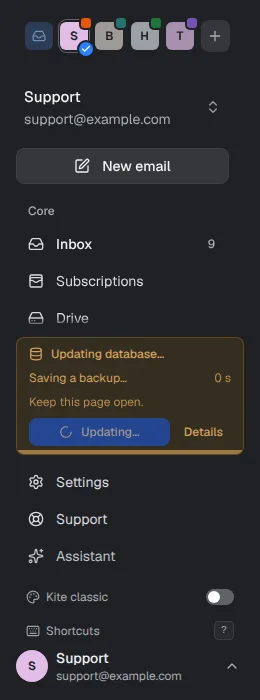
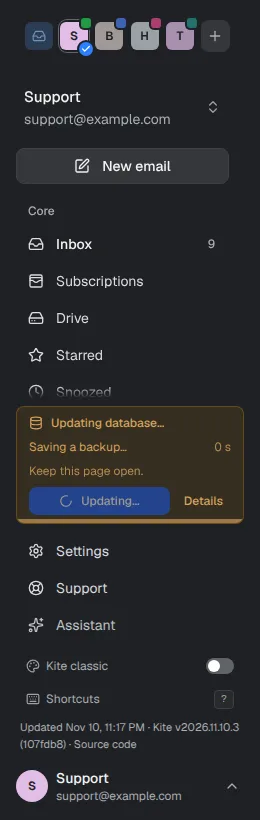
Database update notice: tests, translations, screenshots, docs

diff --git a/e2e/19-updates.spec.ts b/e2e/19-updates.spec.ts
@@ -222,12 +222,12 @@ test("the primary admin applies pending database updates from the banner", async
 	// With nothing open the notice sits in the empty reading pane, and there is no second copy above the list.
 	await expect(page.getByTestId("reading-pane-empty").getByRole("region", { name: "Database updates" })).toBeVisible();
 	await expect(banner).toHaveCount(1);
-	await expect(banner).toContainText("Kite was updated, but the database still needs 2 updates");
+	await expect(banner).toContainText("2 updates waiting");
 	await expect(banner).toContainText("new email may not appear and some pages may fail");
-	await expect(banner).toContainText("0001_add_column.sql");
+	await expect(banner).not.toContainText(".sql");
 	await expect(banner.getByRole("link", { name: "Admin overview" })).toHaveAttribute("href", "/admin");
 
-	await banner.getByRole("button", { name: "Apply now" }).click();
+	await banner.getByRole("button", { name: "Update now" }).click();
 	await expect(banner).toContainText("Database updated");
 	await expect(banner).toContainText("2 database updates applied. A safety backup was saved first.");
 	// The warning is gone once the status reports nothing pending, and only one POST was sent.
@@ -253,9 +253,9 @@ test("a member is told to ask an administrator and gets no Apply button", async 
 	await signIn(page, `${username}@${DOMAIN}`, USER_PASSWORD);
 	const banner = page.getByRole("region", { name: "Database updates" });
 	await expect(banner).toBeVisible();
-	await expect(banner).toContainText("still needs 1 update");
+	await expect(banner).toContainText("1 update waiting");
 	await expect(banner).toContainText("Ask an administrator to apply them.");
-	await expect(banner.getByRole("button", { name: "Apply now" })).toHaveCount(0);
+	await expect(banner.getByRole("button", { name: "Update now" })).toHaveCount(0);
 	await expect(banner.getByRole("link", { name: "Admin overview" })).toHaveCount(0);
 	await context.close();
 });
@@ -289,12 +289,11 @@ test("with a message open the notice moves to a compact notice in the sidebar", 
 	await expect(
 		page.getByRole("navigation", { name: "Kite" }).getByRole("region", { name: "Database updates" }),
 	).toHaveCount(1);
-	await expect(notice).toContainText("still needs 1 update");
-	await expect(notice).toHaveAttribute("title", "0001_add_column.sql");
+	await expect(notice).toContainText("1 update waiting");
 	// Compact: a title, one short line and the button, not a bar across the page.
 	expect((await notice.boundingBox())!.height).toBeLessThan(120);
 
-	await notice.getByRole("button", { name: "Apply now" }).click();
+	await notice.getByRole("button", { name: "Update now" }).click();
 	await expect(notice).toContainText("1 database update applied.");
 	await expect(notice).not.toContainText("Kite was updated");
 	// The compact result leaves at once through its close button, the same way it leaves on its own.
@@ -341,7 +340,7 @@ test.describe("the Database updated notice", () => {
 		await page.clock.install();
 		await openInbox(page);
 		const notice = page.getByRole("region", { name: "Database updates" });
-		await notice.getByRole("button", { name: "Apply now" }).click();
+		await notice.getByRole("button", { name: "Update now" }).click();
 		await expect(notice).toContainText("Database updated");
 		await expect(notice).toContainText("2 database updates applied. A safety backup was saved first.");
 		return notice;
@@ -416,17 +415,17 @@ test.describe("the Database updated notice", () => {
 		await page.clock.install();
 		await openInbox(page);
 		const notice = page.getByRole("region", { name: "Database updates" });
-		await expect(notice).toContainText("still needs 2 updates");
+		await expect(notice).toContainText("2 updates waiting");
 		await page.clock.fastForward(60_000);
-		await expect(notice).toContainText("still needs 2 updates");
+		await expect(notice).toContainText("2 updates waiting");
 
-		await notice.getByRole("button", { name: "Apply now" }).click();
+		await notice.getByRole("button", { name: "Update now" }).click();
 		await expect(notice.getByRole("alert")).toContainText("The database is not reachable right now.");
 		await page.clock.fastForward(60_000);
 		await expect(notice).toBeVisible();
 		await expect(notice.getByRole("alert")).toContainText("The database is not reachable right now.");
-		await expect(notice).toContainText("still needs 2 updates");
-		await expect(notice.getByRole("button", { name: "Apply now" })).toBeVisible();
+		await expect(notice).toContainText("Update failed");
+		await expect(notice.getByRole("button", { name: "Retry" })).toBeVisible();
 		await expect(notice.getByRole("button", { name: "Dismiss" })).toHaveCount(0);
 		await expect(page.locator(NOTICE_FLIGHT)).toHaveCount(0);
 	});

diff --git a/e2e/88-migration-progress.spec.ts b/e2e/88-migration-progress.spec.ts
@@ -56,7 +56,7 @@ async function expectBusy(panel: ReturnType<Page["getByRole"]>, busyName: string
 	const button = panel.getByRole("button", { name: busyName });
 	await expect(button).toBeDisabled();
 	await expect(button).toHaveAttribute("aria-busy", "true");
-	await expect(button).toHaveText("Updating database…");
+	await expect(button).toHaveText(busyName);
 }
 
 test("the admin card shows the steps, progress and elapsed time while the update runs, then what was applied", async ({
@@ -113,14 +113,14 @@ test("the mailbox notice shows the same steps and ends with the result", async (
 	const server = await mockMigrations(page);
 	await page.goto("/inbox");
 	const notice = page.getByRole("region", { name: "Database updates" });
-	await expect(notice).toContainText("still needs 4 updates");
-	await notice.getByRole("button", { name: "Apply now" }).click();
+	await expect(notice).toContainText("4 updates waiting");
+	await notice.getByRole("button", { name: "Update now" }).click();
 
-	await expectBusy(notice, "Updating database…");
-	await expect(notice.getByTestId("migration-progress")).toContainText("Saving a safety backup, then applying…");
-	await expect(notice.getByTestId("migration-progress")).toContainText(/Elapsed: [1-9]\d* s/);
+	await expectBusy(notice, "Updating…");
+	await expect(notice).toContainText("Saving a backup…");
+	await expect(notice).toContainText(/[1-9]\d* s/);
 	server.landTwo();
-	await expect(notice.getByTestId("migration-progress")).toContainText("2 of 4 done");
+	await expect(notice).toContainText("Applying 2 of 4…");
 
 	server.finish();
 	await expect(notice).toContainText("Database updated");
@@ -153,13 +153,13 @@ test("a restore in progress is explained, in the notice as well", async ({ page 
 	server.state.outcome = "restore";
 	await page.goto("/inbox");
 	const notice = page.getByRole("region", { name: "Database updates" });
-	await notice.getByRole("button", { name: "Apply now" }).click();
-	await expectBusy(notice, "Updating database…");
+	await notice.getByRole("button", { name: "Update now" }).click();
+	await expectBusy(notice, "Updating…");
 	server.finish();
 
 	await expect(notice.getByRole("alert")).toContainText("The database was not changed: a backup restore is running.");
-	await expect(notice.getByRole("button", { name: "Apply now" })).toBeEnabled();
-	await expect(notice).toContainText("still needs 4 updates");
+	await expect(notice).toContainText("Update failed");
+	await expect(notice.getByRole("button", { name: "Retry" })).toBeEnabled();
 });
 
 test("a gateway timeout keeps the button busy and the run is followed until the updates have landed", async ({
@@ -169,19 +169,18 @@ test("a gateway timeout keeps the button busy and the run is followed until the 
 	server.state.outcome = "timeout";
 	await page.goto("/inbox");
 	const notice = page.getByRole("region", { name: "Database updates" });
-	await notice.getByRole("button", { name: "Apply now" }).click();
-	await expectBusy(notice, "Updating database…");
+	await notice.getByRole("button", { name: "Update now" }).click();
+	await expectBusy(notice, "Updating…");
 	// The 524 answers; the Worker is still migrating, so nothing is reported as a failure.
 	server.finish();
-	const progress = notice.getByTestId("migration-progress");
-	await expect(progress).toContainText("The connection timed out; the update may still be running — checking…");
-	await expectBusy(notice, "Updating database…");
+	await expect(notice).toContainText("Connection lost, checking…");
+	await expectBusy(notice, "Updating…");
 	await expect(notice.getByRole("alert")).toHaveCount(0);
 
 	server.landTwo();
-	await expect(progress).toContainText("2 of 4 done");
-	await expect(progress).toContainText("The connection timed out");
-	await expectBusy(notice, "Updating database…");
+	await expect(notice).toContainText("Applying 2 of 4…");
+	await expect(notice).toContainText("Connection lost, checking…");
+	await expectBusy(notice, "Updating…");
 
 	server.landAll();
 	await expect(notice).toContainText("Database updated");
@@ -220,8 +219,8 @@ test("a request that never answers is cut off once the list is empty, and the ru
 	const server = await mockMigrations(page);
 	await page.goto("/inbox");
 	const notice = page.getByRole("region", { name: "Database updates" });
-	await notice.getByRole("button", { name: "Apply now" }).click();
-	await expectBusy(notice, "Updating database…");
+	await notice.getByRole("button", { name: "Update now" }).click();
+	await expectBusy(notice, "Updating…");
 
 	// Every update has landed but the POST stays open (the gate is never released).
 	server.landAll();

diff --git a/e2e/99-command-center.spec.ts b/e2e/99-command-center.spec.ts
@@ -7,7 +7,7 @@ import { restoreModules, setModuleState } from "./support/modules";
 
 // The empty reading pane's command center (src/components/command-center/): a greeting with the date, the
 // counts as tiles, the connected accounts, quick actions and what needs attention (admins), as cards. The
-// database notice keeps its place inside the pane (19-updates covers Apply now and its progress).
+// database notice keeps its place inside the pane (19-updates covers Update now and its progress).
 
 const PENDING_API = "/api/migrations/pending";
 
@@ -163,7 +163,7 @@ test("quick actions open the composer and focus the search", async ({ page }) =>
 	await expect(page.locator('input[placeholder*="Search"]')).toBeFocused();
 });
 
-test("waiting database updates stay in the notice with Apply now, not twice in the list", async ({ page }) => {
+test("waiting database updates stay in the notice with Update now, not twice in the list", async ({ page }) => {
 	await page.route(`**${PENDING_API}`, (route) =>
 		route.fulfill({ json: { pending: 1, names: ["0001_add_column.sql"] } }),
 	);
@@ -171,8 +171,8 @@ test("waiting database updates stay in the notice with Apply now, not twice in t
 	const center = pane(page);
 	const notice = center.getByRole("region", { name: "Database updates" });
 	await expect(notice).toBeVisible();
-	await expect(notice).toContainText("Kite was updated, but the database still needs 1 update");
-	await expect(notice.getByRole("button", { name: "Apply now" })).toBeVisible();
+	await expect(notice).toContainText("1 update waiting");
+	await expect(notice.getByRole("button", { name: "Update now" })).toBeVisible();
 	await expect(center.getByTestId("command-center-attention")).toBeVisible();
 	await expect(center.getByTestId("command-center-attention-migrations")).toHaveCount(0);
 });
@@ -187,7 +187,7 @@ test("a member gets the greeting and the counts but no admin card, and cannot ap
 	await expect(center.getByTestId("command-center-attention")).toHaveCount(0);
 	const notice = center.getByRole("region", { name: "Database updates" });
 	await expect(notice).toBeVisible();
-	await expect(notice.getByRole("button", { name: "Apply now" })).toHaveCount(0);
+	await expect(notice.getByRole("button", { name: "Update now" })).toHaveCount(0);
 });
 
 test("connected accounts are listed with their state, failures first with a way to fix them", async ({ page }) => {

diff --git a/src/components/migration-notice-utils.ts b/src/components/migration-notice-utils.ts
@@ -5,7 +5,7 @@ import type { MigrationProgressView } from "./migration-progress-utils";
 export type MigrationNoticeState = "pending" | "applying" | "failed";
 
 /** Which sentence the status line of a running update shows. */
-export type MigrationNoticePhase = "backup" | "applying" | "recovering" | "elsewhere";
+export type MigrationNoticePhase = "backup" | "applying" | "elsewhere";
 
 /** A run in progress always wins; an error is only shown once nothing runs, so Retry never sits beside a spinner. */
 export function migrationNoticeState({ busy, error }: { busy: boolean; error: string | null }): MigrationNoticeState {
@@ -15,11 +15,11 @@ export function migrationNoticeState({ busy, error }: { busy: boolean; error: st
 
 /**
  * The status of a running update. A run another tab or the admin card started has no steps here, so it only
- * says it is going on; this tab's own run is the backup until the first update lands.
+ * says it is going on; this tab's own run is the backup until the first update lands. A dropped connection is
+ * not a phase: the count stays and the hint line says it is being checked.
  */
 export function migrationNoticePhase(view: MigrationProgressView, ownsRun: boolean): MigrationNoticePhase {
 	if (!ownsRun) return "elsewhere";
-	if (view.notice) return "recovering";
 	return view.done > 0 && view.total > 0 ? "applying" : "backup";
 }
 

diff --git a/src/components/migration-notice-card.tsx b/src/components/migration-notice-card.tsx
@@ -115,7 +115,6 @@ export function MigrationNoticeCard({ notice, compact = false, className }: Migr
 	const status = {
 		backup: t("Saving a backup…"),
 		applying: t("Applying {done} of {total}…", { done: view.done, total: view.total }),
-		recovering: t("Connection lost, checking…"),
 		elsewhere: t("Update in progress…"),
 	}[phase];
 
@@ -158,7 +157,9 @@ export function MigrationNoticeCard({ notice, compact = false, className }: Migr
 							</p>
 						)}
 					</div>
-					<p className="opacity-80">{t("Keep this page open.")}</p>
+					<p className="opacity-80">
+						{progress.recovering ? t("Connection lost, checking…") : t("Keep this page open.")}
+					</p>
 					<ProgressLine done={view.done} total={view.total} label={t("Database update progress")} />
 				</>
 			)}
@@ -198,7 +199,7 @@ export function MigrationNoticeCard({ notice, compact = false, className }: Migr
 				) : isAdmin ? (
 					<AdminLink label={t("Admin overview")} />
 				) : null}
-				{state === "failed" && isPrimaryAdmin && <AdminLink label={t("Admin overview")} />}
+				{isPrimaryAdmin && (state === "failed" || !compact) && <AdminLink label={t("Admin overview")} />}
 				{state !== "failed" && <DetailsDialog data={data} />}
 			</div>
 		</section>

diff --git a/e2e/107-migration-notice-layout.spec.ts b/e2e/107-migration-notice-layout.spec.ts
@@ -211,3 +211,32 @@ for (const variant of [
 		await expectClean(card);
 	});
 }
+
+for (const variant of [
+	{ language: "nl", dir: "ltr", pending: "4 updates wachten", applying: "Back-up opslaan…", button: "Nu bijwerken" },
+	{
+		language: "ar",
+		dir: "rtl",
+		pending: "4 تحديثات بانتظار التطبيق",
+		applying: "جارٍ حفظ نسخة احتياطية…",
+		button: "حدّث الآن",
+	},
+]) {
+	test(`the notice is translated to ${variant.language} and keeps its layout (${variant.dir})`, async ({ page }) => {
+		await page.addInitScript((language) => {
+			localStorage.setItem("kite-layout-sync", "off");
+			localStorage.setItem("kite-interface-language", language);
+		}, variant.language);
+		const server = await mockMigrations(page);
+		const card = await openSidebarCard(page, 200);
+		await expect(page.locator("html")).toHaveAttribute("dir", variant.dir);
+		await expect(card).toContainText(variant.pending);
+		await expectClean(card);
+
+		await card.getByRole("button", { name: variant.button }).click();
+		await expect(card).toHaveAttribute("data-state", "applying");
+		await expect(card).toContainText(variant.applying);
+		await expectClean(card);
+		server.finish();
+	});
+}

diff --git a/docs/deployment.md b/docs/deployment.md
@@ -224,7 +224,7 @@ Cloudflare's Speed Brain (in the dashboard under **Speed** → **Optimization** 
 
 Deployment and database migration are separate. After Cloudflare deploys a new version, open or refresh the **Admin overview**. The database card, first on the page, lists every pending migration by file name and states that before applying them Kite saves a safety backup of the database when there is data to save (it is listed on the Backups page). Select **Update database** to apply them through the Worker's D1 binding. Only the primary admin can apply them; other admins see the same card with the number of waiting updates and the primary admin's name and address, so they know whom to ask. The same runner initializes a new database during setup.
 
-While migrations are pending, everyone who opens the mailbox sees a banner: it names the number of waiting updates, warns that new email may not appear and that some pages may fail until they are applied, and tells them to ask an administrator; other admins are told the primary admin's name and address instead. The primary admin also gets **Apply now** there, which runs the same update as the database card (a safety backup first, then each migration in one D1 batch), and a link to the Admin overview. The check behind the banner reads only `d1_migrations`, so it works while the schema is behind; any signed-in user can call `GET /api/migrations/pending`, which answers `{ "pending": 1 }` and includes the migration file names only for the primary admin, and the primary admin (`appliedBy: { name, email }`) only for other admins.
+While migrations are pending, everyone who opens the mailbox sees a compact **Database update** card (`src/components/migration-notice-card.tsx`; it never scrolls or cuts a word off, in the sidebar, over the page on phones or in the empty reading pane): it names the number of waiting updates and tells them to ask an administrator; other admins are told the primary admin's name and address instead. **Details** lists the waiting updates in words and warns that new email may not appear and that some pages may fail until they are applied. The primary admin also gets **Update now** there, which runs the same update as the database card (a safety backup first, then each migration in one D1 batch) and shows a thin progress line instead of steps, and a link to the Admin overview; a failed run shows its error with **Retry**. The check behind the banner reads only `d1_migrations`, so it works while the schema is behind; any signed-in user can call `GET /api/migrations/pending`, which answers `{ "pending": 1 }` and includes the migration file names only for the primary admin, and the primary admin (`appliedBy: { name, email }`) only for other admins.
 
 Set `AUTO_APPLY_MIGRATIONS=1` (or `true`) to apply pending migrations without opening the Admin overview. Kite then applies them the first time it notices them, from the banner's status check or from the start of queue processing, with the same safety backup; it does each run once per Worker instance and never alongside another run in the same instance, and a failed run is retried by the next check. Two instances racing is safe: each migration is recorded in the same batch that applies it. The setting is an environment variable rather than a saved setting on purpose: a saved setting would live in the database whose schema is exactly what is out of date, so a column added for it could not be read until the migration that adds it had run. It is off by default, and it does nothing in the self-hosted Node runtime, which applies migrations at start-up.
 

diff --git a/CLAUDE.md b/CLAUDE.md
@@ -124,7 +124,7 @@ Schema lives in `src/db/schema/index.ts`, plus `src/db/schema/agent-auto-read.ts
 
 The setup path only ever initializes an empty database — it refuses to touch one that already has tables.
 
-Deploys never apply migrations, so the deployed code can run a release ahead of the schema. `src/lib/migrations/pending.ts` answers that question for everyone (`GET /api/migrations/pending`, `{ pending }`), and `src/components/migrations-banner.tsx` shows it in the mailbox: the primary admin can apply the updates from there through the existing admin route. With `AUTO_APPLY_MIGRATIONS=1` (an env var, so it can be read before its own migration exists), `src/lib/migrations/auto-apply.ts` applies pending migrations once per isolate from that status check and from the start of queue processing, with the same safety backup as the admin route. Keep both paths working on a database whose schema is behind: read `d1_migrations` and `sqlite_master`, never a new column. The one exception is the primary admin's name and address that `GET /api/migrations/pending` gives other admins (`pendingStatusOptions` in `src/lib/migrations/pending-utils.ts` decides who): `readMigrationApplier` checks `pragma_table_info('users')` for every column it reads first and leaves it out otherwise.
+Deploys never apply migrations, so the deployed code can run a release ahead of the schema. `src/lib/migrations/pending.ts` answers that question for everyone (`GET /api/migrations/pending`, `{ pending }`), and `src/components/migrations-banner.tsx` (the card itself is `migration-notice-card.tsx`) shows it in the mailbox: the primary admin can apply the updates from there through the existing admin route. With `AUTO_APPLY_MIGRATIONS=1` (an env var, so it can be read before its own migration exists), `src/lib/migrations/auto-apply.ts` applies pending migrations once per isolate from that status check and from the start of queue processing, with the same safety backup as the admin route. Keep both paths working on a database whose schema is behind: read `d1_migrations` and `sqlite_master`, never a new column. The one exception is the primary admin's name and address that `GET /api/migrations/pending` gives other admins (`pendingStatusOptions` in `src/lib/migrations/pending-utils.ts` decides who): `readMigrationApplier` checks `pragma_table_info('users')` for every column it reads first and leaves it out otherwise.
 
 ### Two runtimes, one code path
 

diff --git a/docs/operations.md b/docs/operations.md
@@ -73,7 +73,7 @@ A push to `main` deploys the main Worker through the Cloudflare Git integration.
    - `backup.stale_marked_failed`: a queued or running backup was interrupted and was marked failed.
    - `alerts.*`: the operational alert run (see [Operational alerts](#operational-alerts)).
 4. Open Metrics and compare requests, errors and CPU time with the period before the deploy.
-5. On the Admin overview, the database card (`src/components/admin-update-card.tsx`, `GET /api/admin/migrations`) shows pending D1 migrations. Apply them from there; deploys never migrate for you. Until they are applied, the mailbox shows the same warning with an **Apply now** button (`GET /api/migrations/pending`), and inbound mail is retried rather than stored. With `AUTO_APPLY_MIGRATIONS=1` the first check or queue batch applies them instead, after saving the usual safety backup.
+5. On the Admin overview, the database card (`src/components/admin-update-card.tsx`, `GET /api/admin/migrations`) shows pending D1 migrations. Apply them from there; deploys never migrate for you. Until they are applied, the mailbox shows a compact **Database update** card with an **Update now** button (`GET /api/migrations/pending`), and inbound mail is retried rather than stored. With `AUTO_APPLY_MIGRATIONS=1` the first check or queue batch applies them instead, after saving the usual safety backup.
 6. `GET /api/setup/status` answers 200 when the setup and database reads work. It does not prove queues, R2 or providers.
 7. Send a synthetic message from a mailbox and receive one from outside. Both must arrive. Use only `example.com` style synthetic addresses.
 

diff --git a/changelog.d/database-update-notice.md b/changelog.d/database-update-notice.md
@@ -1,0 +1,5 @@
+### Changed
+
+- The database update notice is now a compact card: a short title, one line of status, a thin progress bar and a single **Update now** button. It no longer scrolls or cuts words off in the sidebar, shows updates in plain words under **Details** instead of file names, and says clearly when an update failed, with **Retry** and a link to the Admin overview.
+  ![The compact database update notice in the sidebar while an update runs, in dark mode](/changelog/2026-11-10-database-update-after-dark.webp)
+  ![The same notice in light mode](/changelog/2026-11-10-database-update-after-light.webp)
